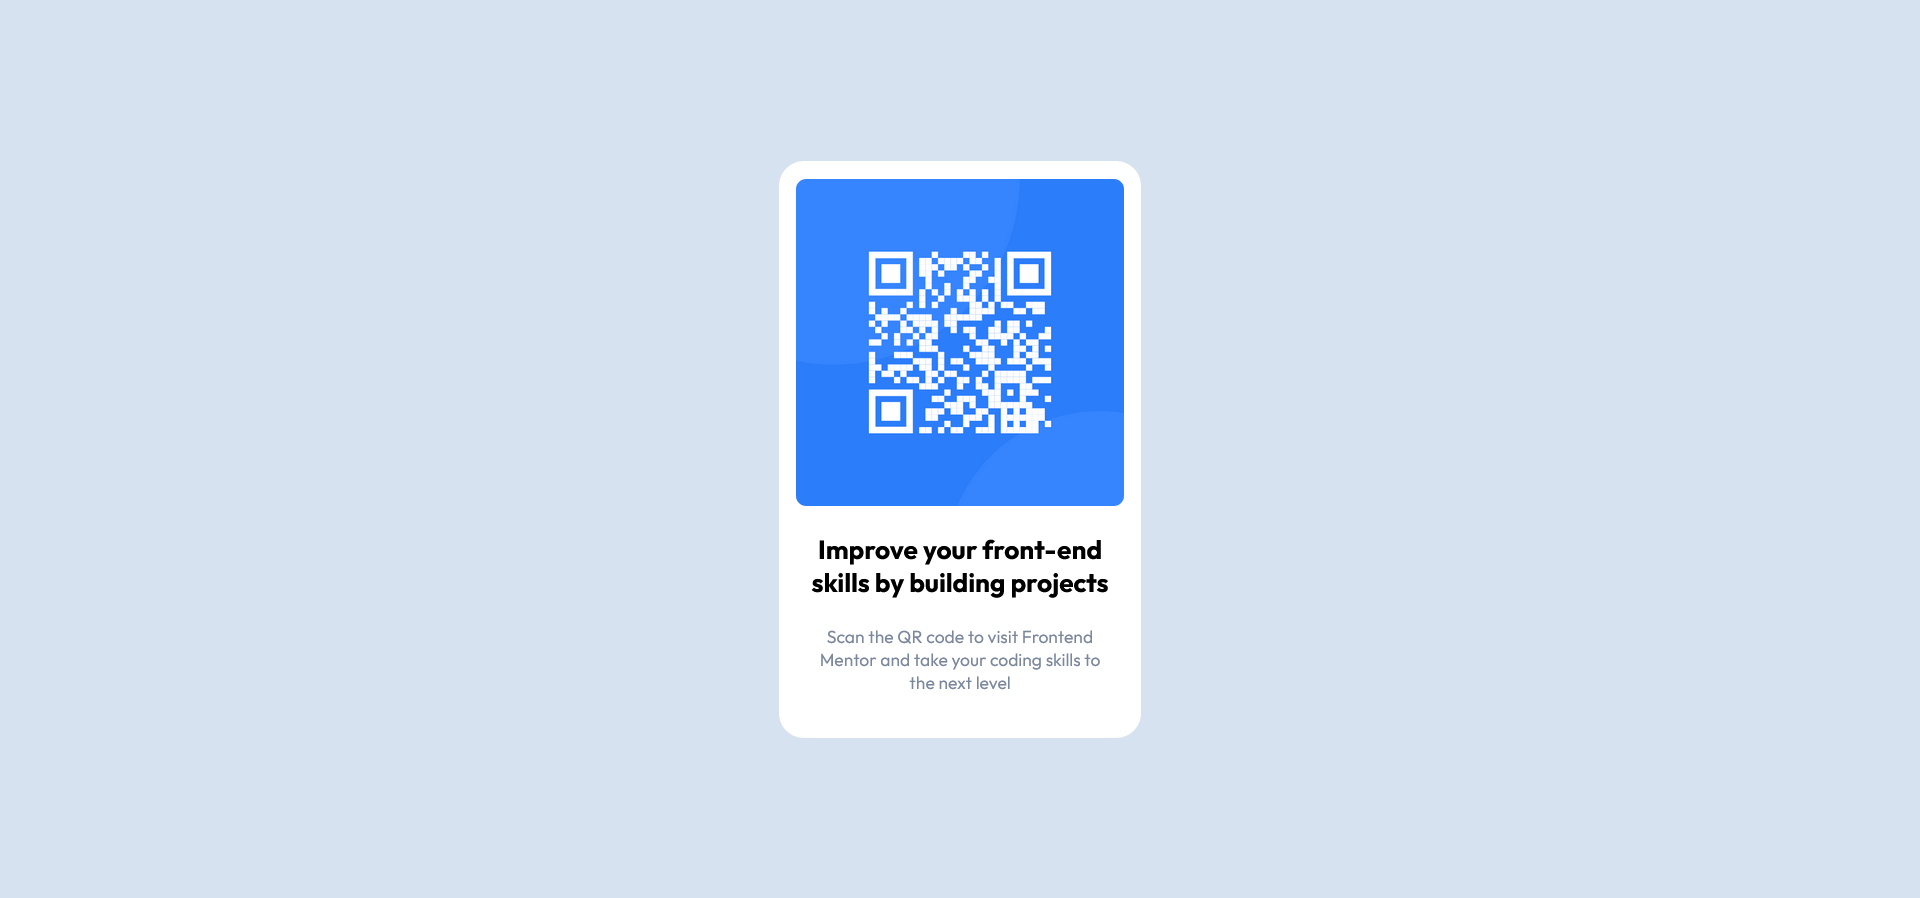
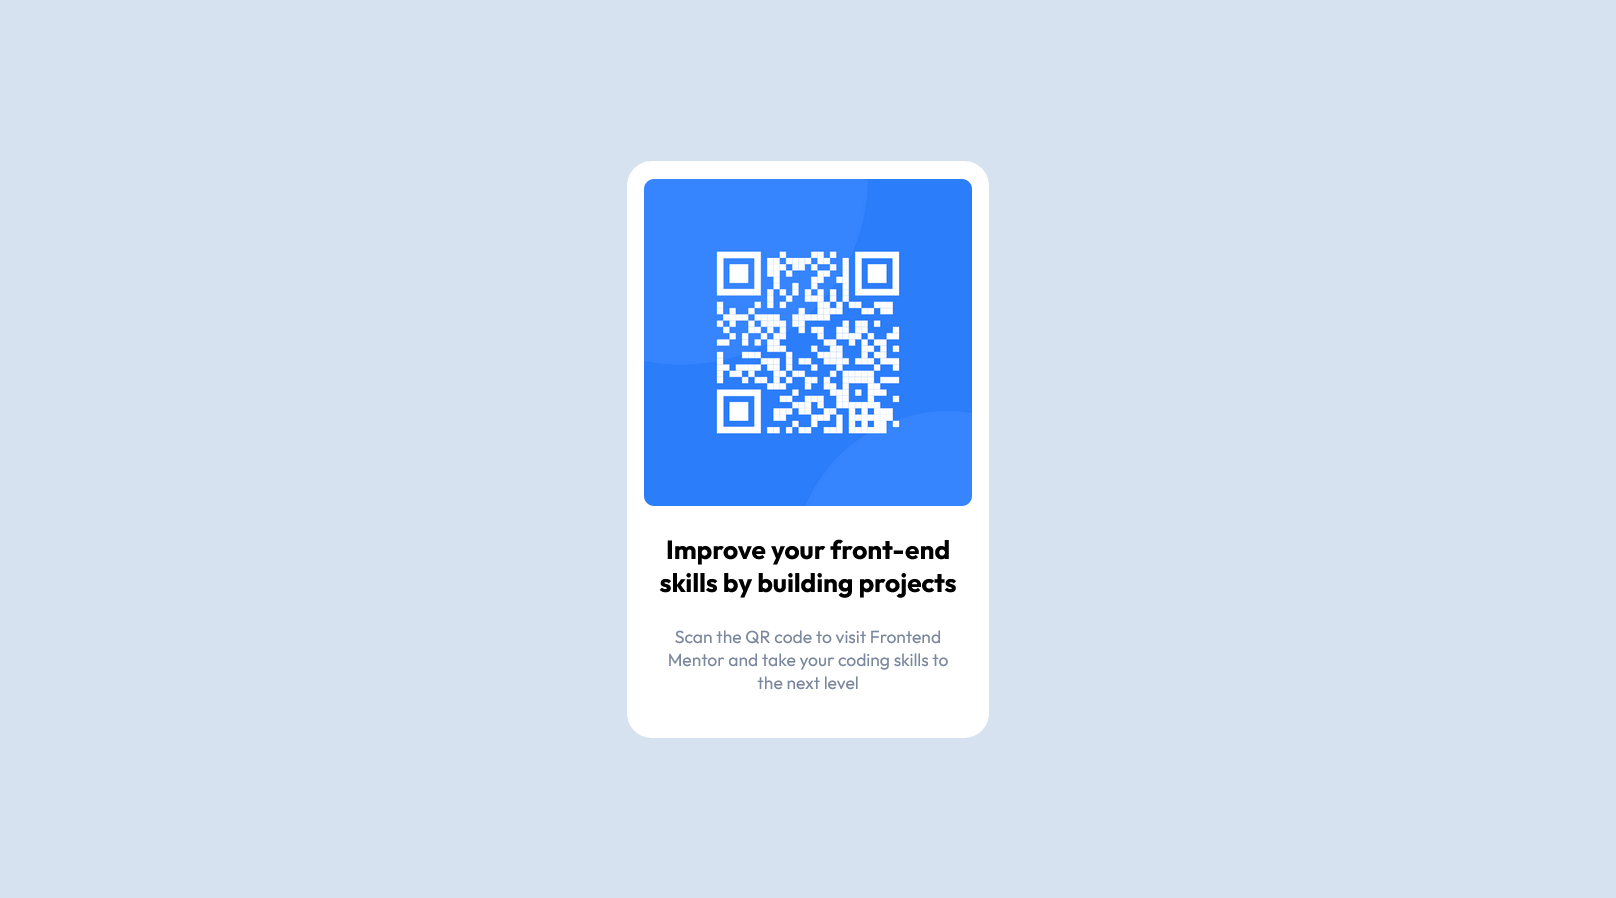
nearly completed

Changed region(s): [[0.3713, 0.1559, 0.6188, 0.8419]]

diff --git a/index.html b/index.html
@@ -46,6 +46,7 @@
       font-weight: 700;
       font-size: 14px;
       text-align: center;
+      font-size: 15px;
       
     }
     .qrcode > img
@@ -60,18 +61,19 @@
       margin: 0 0 1.5em 0;
       width: 90%;
     }
-    .qrcode > h2
+    .qrcode > h1
     {
       margin: 1em 0 1em 0;
+      font-size: 1.5em;
     }
   </style>
 </head>
 <body>
-  <div class="main">
-    <div class="qrcode">
-      <img src="./images/image-qr-code.png" />
-      <h2>Improve your front-end skills by building projects</h2>
-      <p>Scan the QR code to visit Frontend Mentor and take your coding skills to<br/> the next level</p>
+  <div class="main" role="main">
+    <div class="qrcode" role="columnheader">
+      <img src="./images/image-qr-code.png" alt="QR Code Image" />
+      <h1 role="heading">Improve your front-end skills by building projects</h1>
+      <p role="definition">Scan the QR code to visit Frontend Mentor and take your coding skills to<br/> the next level</p>
     </div>
   </div>
 </body>
